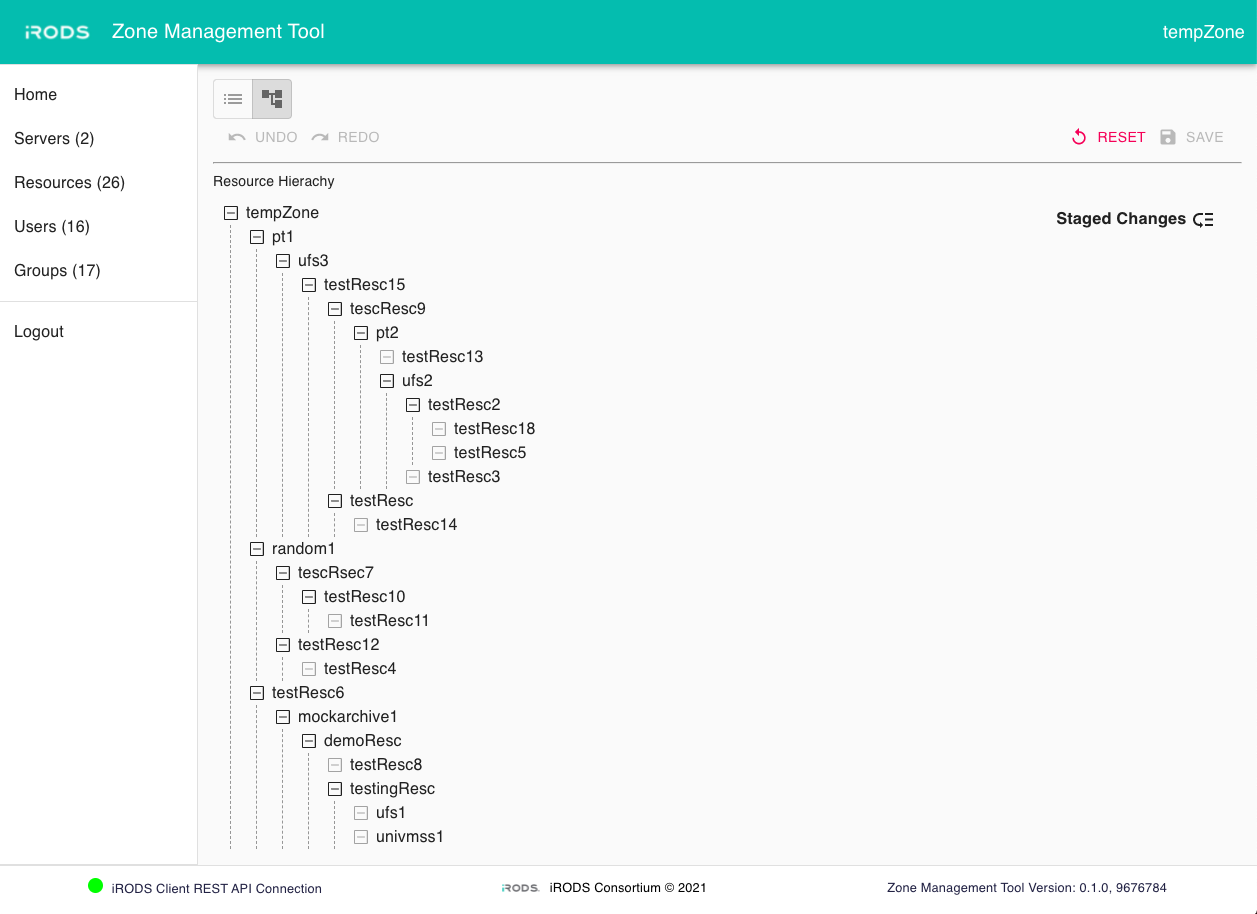
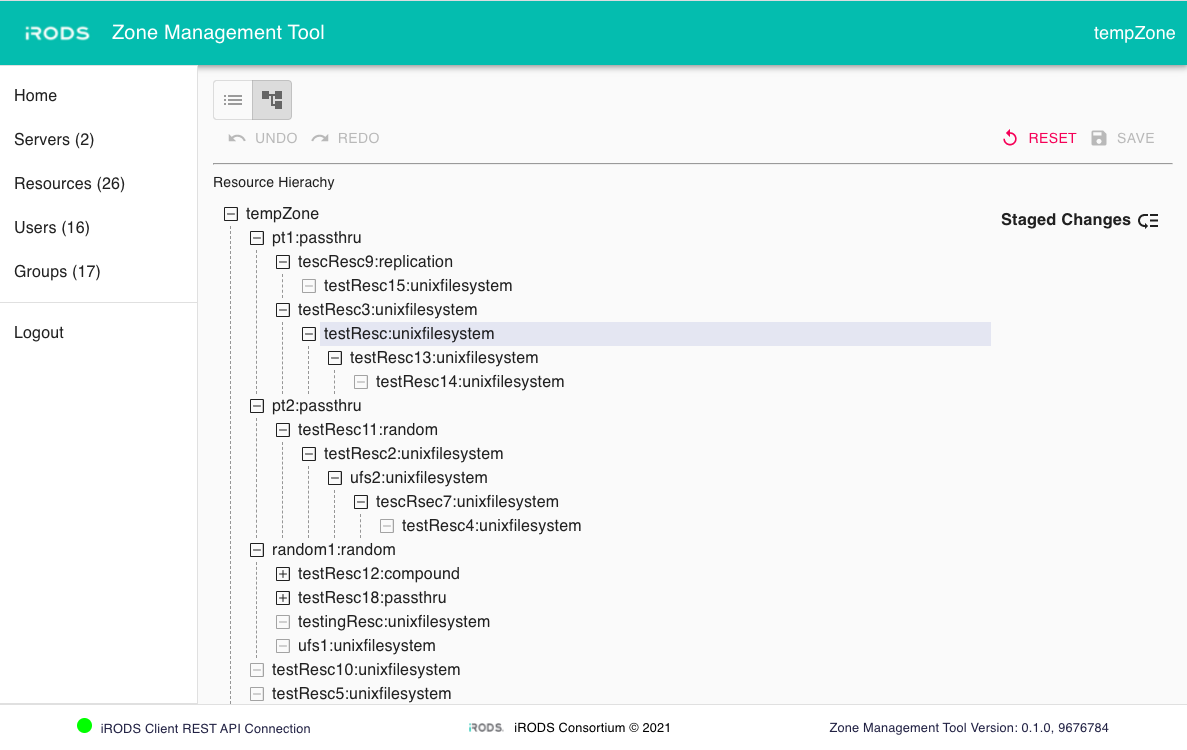
[#90] add resource type in treeview

diff --git a/src/components/draggable-tree/tree.js b/src/components/draggable-tree/tree.js
@@ -9,7 +9,7 @@ import RedoIcon from '@material-ui/icons/Redo';
 import ReplayIcon from '@material-ui/icons/Replay';
 import SaveIcon from '@material-ui/icons/Save';
 import LowPriorityIcon from '@material-ui/icons/LowPriority';
-import { useEnvironment } from '../../contexts/EnvironmentContext';
+import { useEnvironment, useServer } from '../../contexts';
 import { AddChildRescourceController, RemoveChildRescourceController } from '../../controllers/ResourceController';
 import { MinusSquare, PlusSquare } from '../../icons';
 import { replacer, reviver } from '../../utils';
@@ -39,6 +39,7 @@ export const Tree = (props) => {
     let originalChildrenMap = JSON.stringify(childrenMap, replacer);
     let originalDataMap = JSON.stringify(dataMap, replacer);
     const { restApiLocation } = useEnvironment();
+    const { zoneName } = useServer();
     const [stagedChildrenMap, setStagedChildrenMap] = useState(JSON.parse(originalChildrenMap, reviver));
     const [stagedDataMap, setStagedDataMap] = useState(JSON.parse(originalDataMap, reviver));
     const [redo, setRedo] = useState([]);
@@ -76,7 +77,7 @@ export const Tree = (props) => {
         (async function asyncProcessTask() {
             for (let task of tasks_copy) {
                 try {
-                    if (task[1][0] !== 'tempZone') {
+                    if (task[1][0] !== zoneName) {
                         await RemoveChildRescourceController(task[1][0], task[0][0], restApiLocation);
                         task[3] = 'success'
                     }
@@ -91,7 +92,7 @@ export const Tree = (props) => {
                 }
                 setTasks(tasks_copy)
                 try {
-                    if (task[2][0] !== 'tempZone') {
+                    if (task[2][0] !== zoneName) {
                         await AddChildRescourceController(task[2][0], task[0][0], restApiLocation);
                         task[4] = 'success'
                     }
@@ -166,23 +167,24 @@ export const Tree = (props) => {
     }
 
     const renderTreeNode = (node) => {
-        const nodeId = node[0] === 'tempZone' ? "" : node[11];
+        const nodeName = `${node[0]}${node[0] !== zoneName ? `:${node[1]}` : ''}`
+        const nodeId = node[0] === zoneName ? "" : node[11];
         expanded.push(nodeId)
         const handleDragEnd = (e) => {
-            if (newParentNode !== undefined && e.target !== undefined && e.target.children[0] !== undefined && e.target.children[0].children[1] !== undefined && node[0] === e.target.children[0].children[1].innerHTML && node[11] !== newParentNode[11]) {
+            if (newParentNode !== undefined && e.target !== undefined && e.target.children[0] !== undefined && e.target.children[0].children[1] !== undefined && nodeName === e.target.children[0].children[1].innerHTML && node[11] !== newParentNode[11]) {
                 dragndropController(node, stagedDataMap.get(node[10]));
             }
         }
 
         const handleDragStart = (e) => {
-            if (e.target !== undefined && e.target.children[0] !== undefined && e.target.children[0].children[1] !== undefined && e.target.children[0].children[1].innerHTML === node[0]) {
+            if (e.target !== undefined && e.target.children[0] !== undefined && e.target.children[0].children[1] !== undefined && e.target.children[0].children[1].innerHTML === nodeName) {
                 setCurrNode(node);
             }
         }
 
         const handleDragOver = (e) => {
             e.preventDefault();
-            if (e.target.innerHTML === node[0]) {
+            if (e.target.innerHTML === nodeName) {
                 setTargetNode(node);
             }
         }
@@ -196,7 +198,7 @@ export const Tree = (props) => {
         }
 
         const handleDrop = (e) => {
-            if (e.target !== undefined && e.target.innerHTML === node[0]) {
+            if (e.target !== undefined && e.target.innerHTML === nodeName) {
                 setNewParentNode(node);
                 e.target.style.background = "";
                 setCurrNode();
@@ -208,7 +210,7 @@ export const Tree = (props) => {
             <StyledTreeItem
                 key={`tree-item-${nodeId}`}
                 nodeId={nodeId}
-                label={node[0]}
+                label={nodeName}
                 draggable={node[11] === '' ? false : true}
                 onDragEnter={e => handleDragEnter(e)}
                 onDragEnd={e => handleDragEnd(e)}
